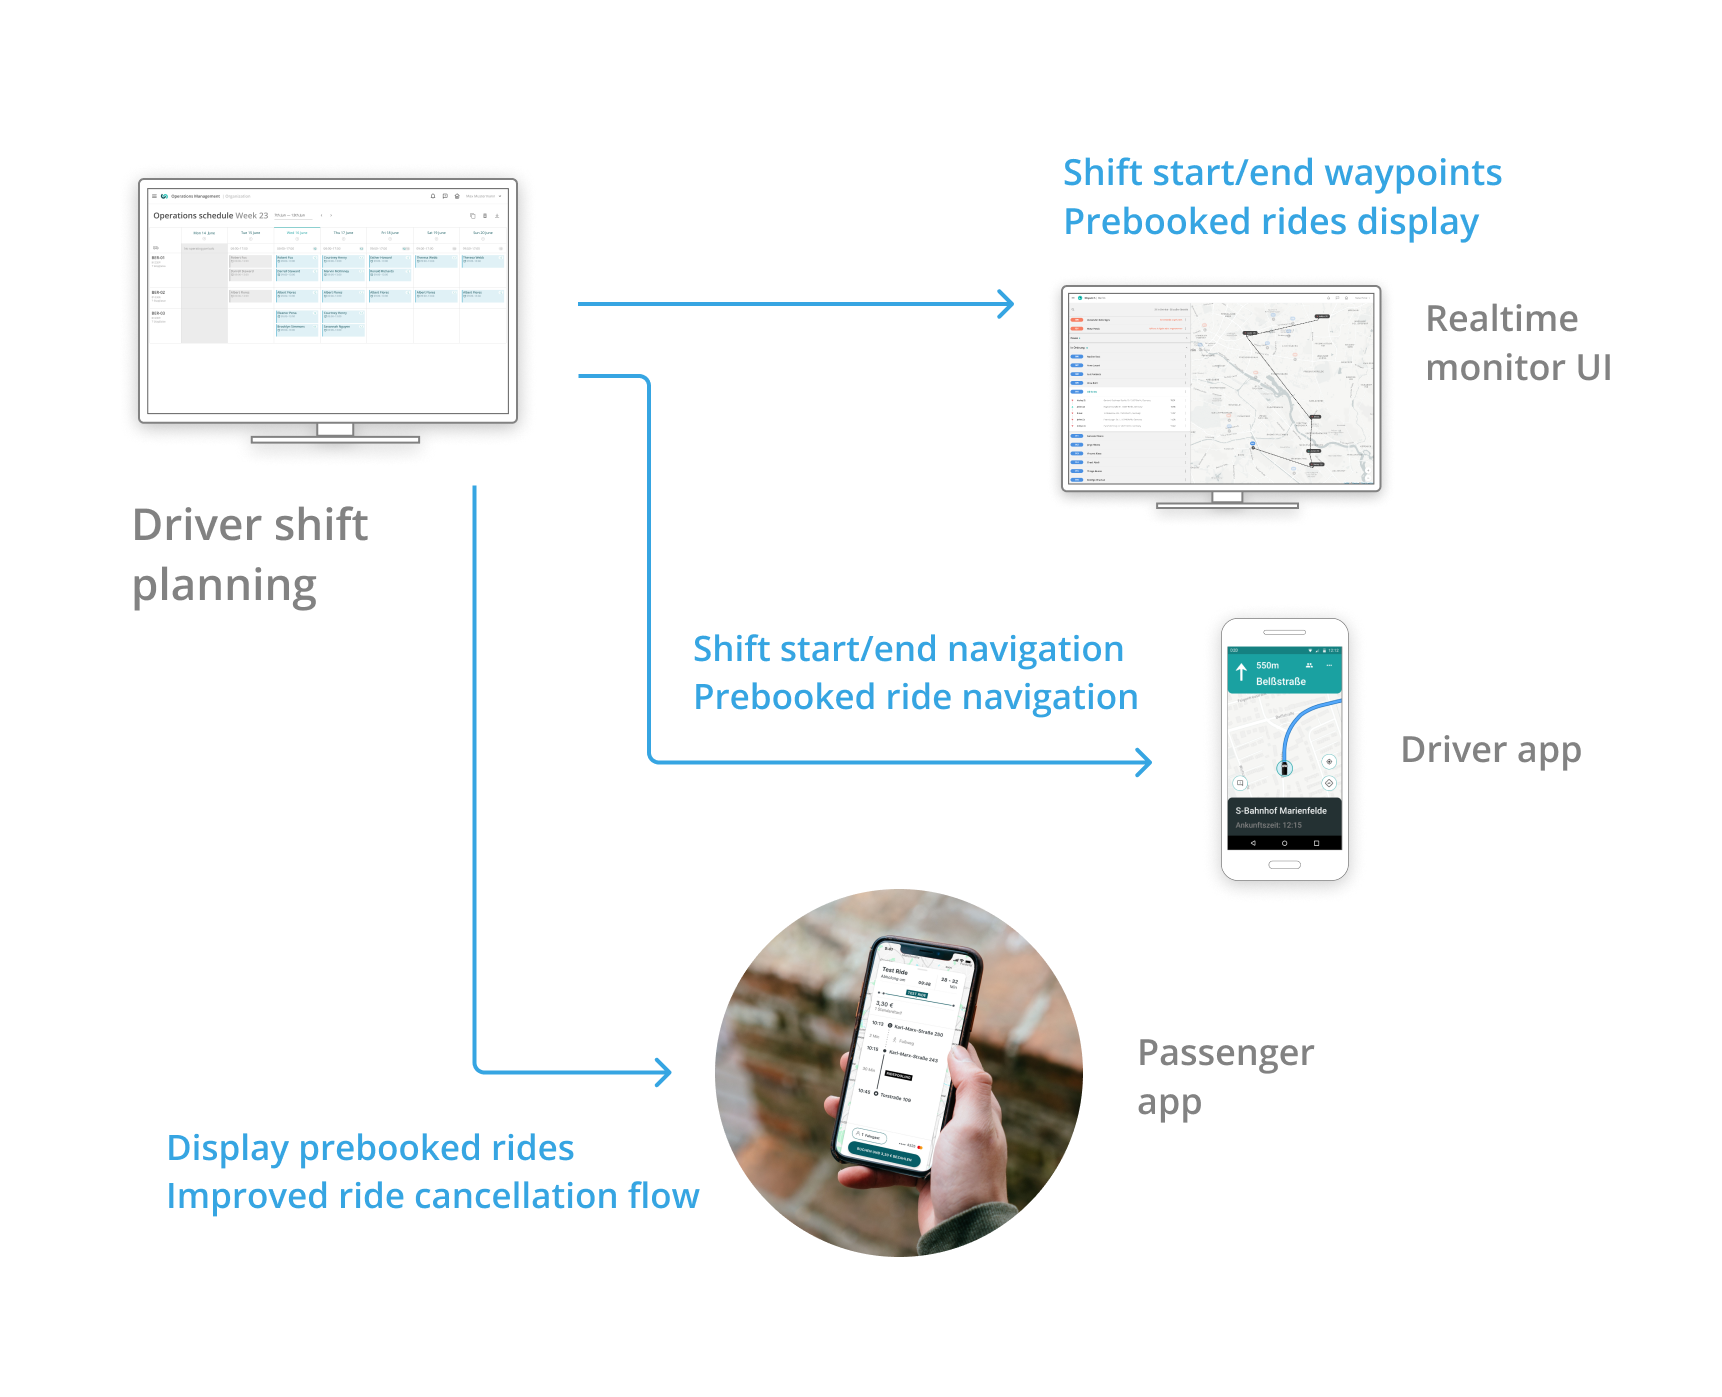
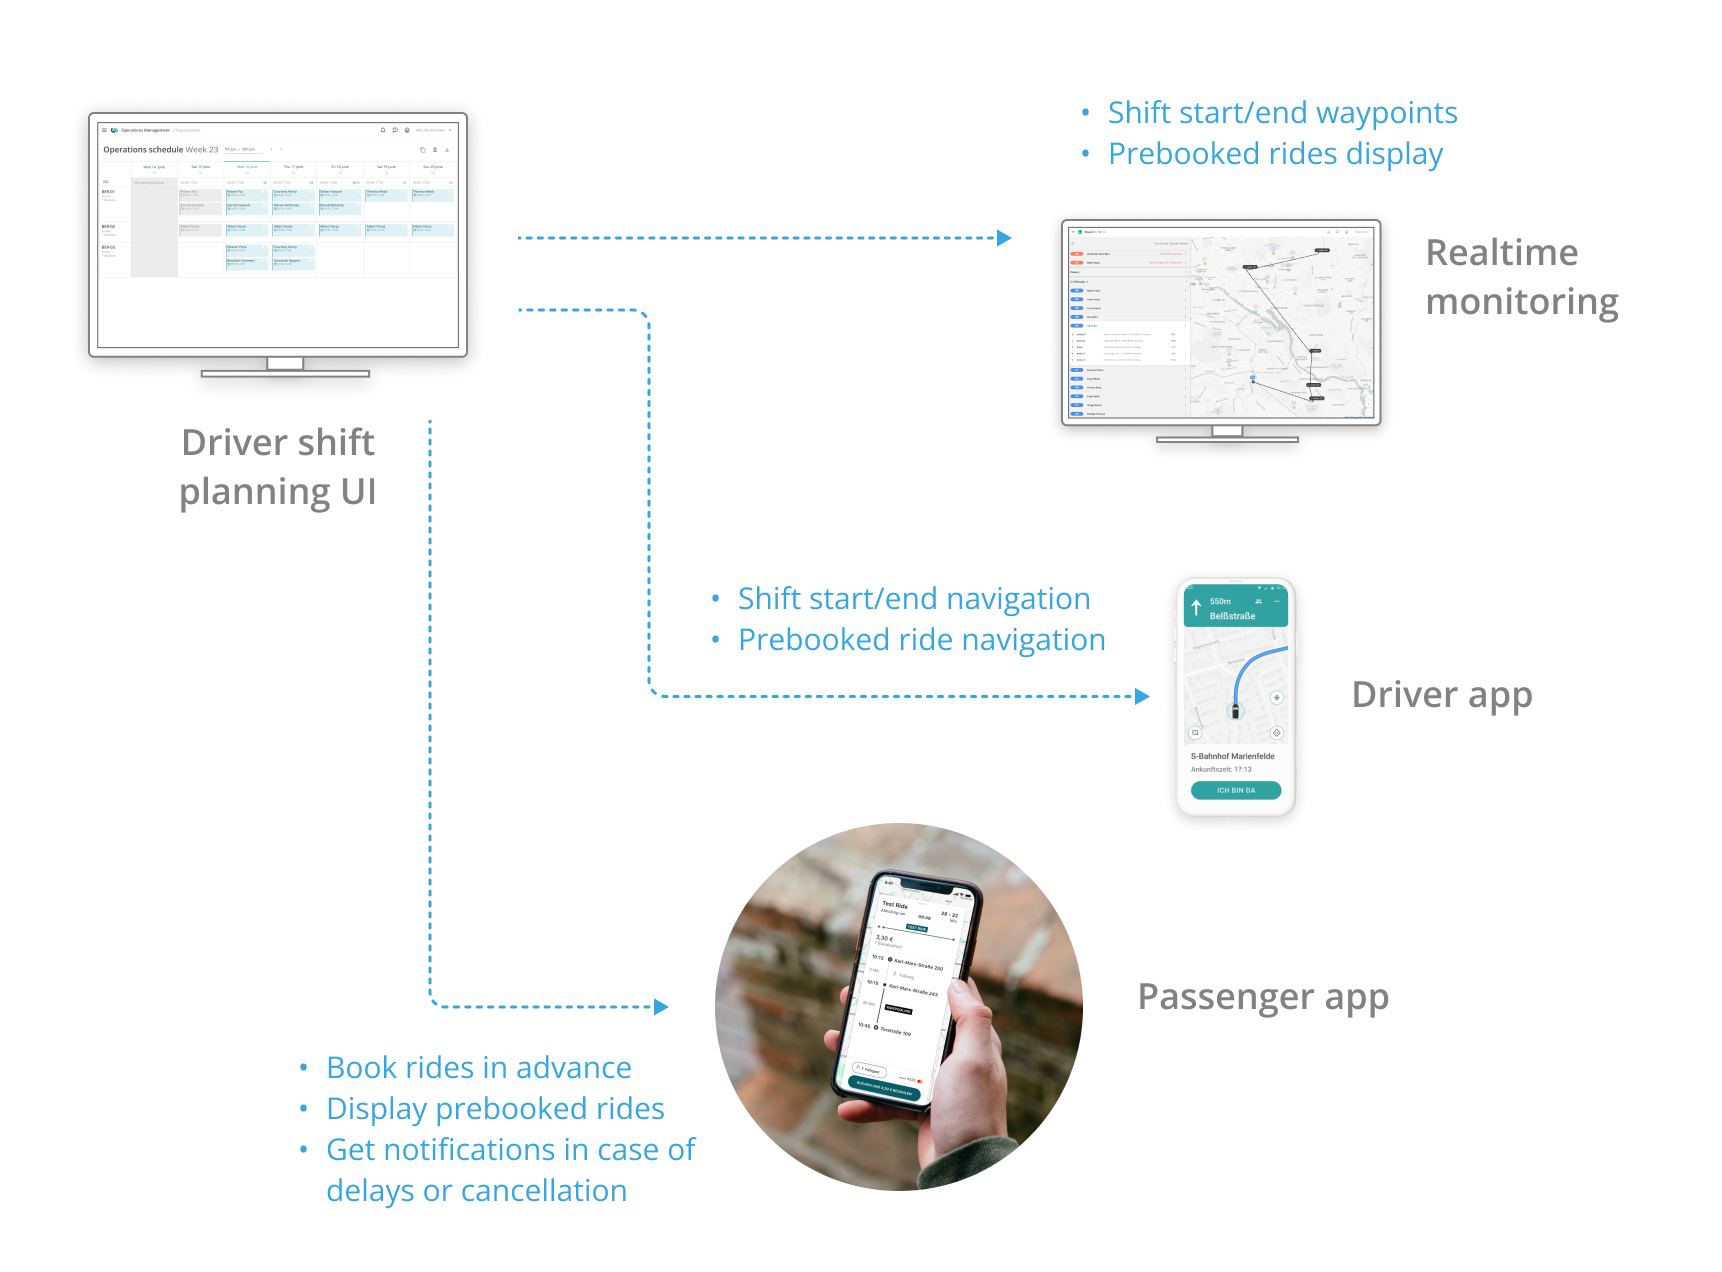
d2d

diff --git a/door2door/index.html b/door2door/index.html
@@ -96,43 +96,38 @@
 
 
       <h3>Situation</h3>
-      <p>Scheduling was a hot topic: complex and technically challenging, highly demanded by clients, and critical features depended on it.
-        The scheduling was supposed to add a new dimension — time — to a previously "realtime" system, it was supposed to change core userflows, and affect nearly all interfaces.</p>
-        
-      <p>To be able to tackle such project, a dedicated cross-team task force was established, with me being its design leader.</p>
+      <p>Ability to plan operations was a feature highly demanded by public transit companies: it would allow them to automate operations from the management side. Without planned operations passengers could not pre-book trips, which had strategic importance.
+      But despite its strategic value, building it was deprioritised for some time, creating a situation of "product debt", until it started blocking important leads. 
+      <p>The scheduling was supposed to add a new dimension — time — to a previously "realtime" system, changing core userflows, and affecting nearly all interfaces of the product.
+      A dedicated cross-team task force was established for implementation, with me being its design leader.</p>
       <h3>My task</h3>
-      <p>To find a solution that would make automated shift and break planning possible, saving on operational expenses, enabling pre-booking for the passenger, and unlocking a market of large-scale operations.</p>
+      <p>To find a solution that would make automated shift and break planning possible, saving operational expenses, enabling pre-booking for the passengers, and unlocking a market of large-scale operations.</p>
 
       <h3>Research</h3>
-      <p>As a design lead for this project, I facilitated a series of initial interviews with public transit operators in 4 cities and regions of Germany. The results were brought to internal ideation sessions and then again to customer feedback interviews (there were more than 10 iterations).</p>
+      <p>To understand underlying problems, I have conducted a series of initial interviews with public transit operators in 4 cities and regions of Germany. The results were brought to internal ideation sessions and then again to customer feedback interviews (there were more than 10 iterations).</p>
       <p>The difficulty was in synthesizing a variety of requirements and refining the concept to be both technically viable and a robust foundation for future expansion.</p>
       
       <h3>Solution</h3>
-      <p>Under my leadership we created a phased solution that bridged two valuable system capabilities (planning and pre-booking), addressed the pressing issues first, was able to smoothly handle external changes, and opened the potential for valuable optimisation in the future.</p>
+      <p>The concept that made everyone agree was a multi-phased plan which was set up to address pressing problems first and contained design proposalf for possible additional valuable functonality, such as automated schedule generation and dynamic supply-demand matching.</p>
+      <p>Under my design leadership the team built a planning feature, allowing for larger scale operations, and activated pre-booking capability for passengers, which was a key for important business cases such as commuting or medical transport.</p>
 
     </section>
 
       <img class="img-responsive center-block" src="/images/d2d-dependencies.png" alt="">
-      <p class="caption">Functional dependencies</p>
-
-    <section class="copy-section">
-
-      
-
-    </section>
+      <p class="caption">Functional dependencies.</p>
+      <br/>
 
       <img class="img-responsive center-block" src="/images/shiftplanning-1.png" alt="">
-      <p class="caption">Schedule planner</p>
+      <p class="caption">Planning a schedule.</p>
+      <br/>
+      <img class="img-responsive center-block" src="/images/realtimeview.png" alt="">
+      <p class="caption">Viewing planned driver shifts in realtime monitoring UI.</p>
+      <br/>
       <img class="img-responsive center-block" src="/images/prebooking.png" alt="">
-      <p class="caption">Passenger prebooking a ride</p>
-    <section class="copy-section">
-     
-
-     
-    </section>
-
-    <img class="img-responsive center-block" src="/images/d2d-handling.png" alt="">
-    <p class="caption">Edge cases and recovery userflows.</p>
+      <p class="caption">Passenger prebooking a ride.</p>
+      <br/>
+      <img class="img-responsive center-block" src="/images/d2d-handling.png" alt="">
+      <p class="caption">Recovery userflows for handling unplanned changes.</p>
     <section class="copy-section">
       <br>
 
